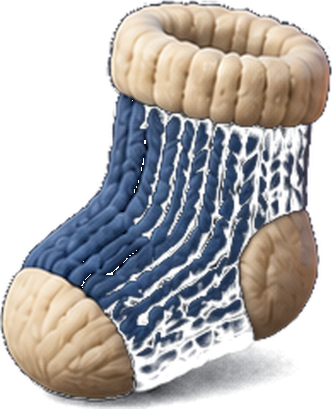
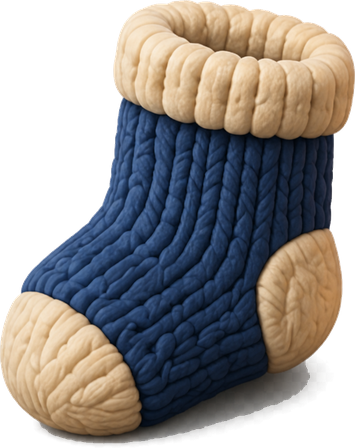
Ersatz fuer Socke und Zaubererhut eingebaut
Wolfs Nachbestellung. Vor dem Einbau gemessen, beide erfuellen genau das, was
im Prompt stand:
  Socke      0 Loecher (vorher 109), 0 teildurchsichtige Pixel im Inneren
  Zauberhut  0 Loecher (vorher 13),  0 teildurchsichtige Pixel im Inneren
Das Gestrick ist jetzt ueber Licht und Schatten modelliert statt durchbrochen
gezeichnet. Im Bild gegen Gruen geprueft: keine Kachelfarbe scheint mehr
durch.

Die Alpha-Reparatur meldet fuer beide „nichts zu tun" — die Dateien kommen
sauber an und brauchen kein Nachbessern mehr.

Claude-Session: https://claude.ai/code/session_01QzZkRyd75Q6eqFDuBPStVf

diff --git a/frontend/src/cozyquizAvatars.ts b/frontend/src/cozyquizAvatars.ts
@@ -167,7 +167,7 @@ export const COZYQUIZ_FILL: Record<string, number> = {
   'hot-air-balloon': 0.92,
   'houseplant': 0.92,
   'key': 0.92,
-  'knitted-sock': 0.92,
+  'knitted-sock': 0.90,
   'lemonade': 0.92,
   'light-bulb': 0.92,
   'magnet': 0.92,
@@ -199,6 +199,7 @@ export const COZYQUIZ_NUDGE: Record<string, [number, number]> = {
   'croissant': [1.7, 1.9],
   'hot-air-balloon': [-1.6, 3.8],
   'houseplant': [0.5, -2.8],
+  'knitted-sock': [-1.9, -1.3],
   'lemonade': [0.1, -2.0],
   'light-bulb': [-0.1, 2.5],
   'paper-boat': [-0.8, -2.2],
@@ -206,5 +207,5 @@ export const COZYQUIZ_NUDGE: Record<string, [number, number]> = {
   'puzzle': [1.1, -1.8],
   'rocket': [-2.2, -1.4],
   'tent': [-0.6, -6.3],
-  'wizard-hat': [-0.3, -4.0],
+  'wizard-hat': [-1.1, -4.5],
 };
